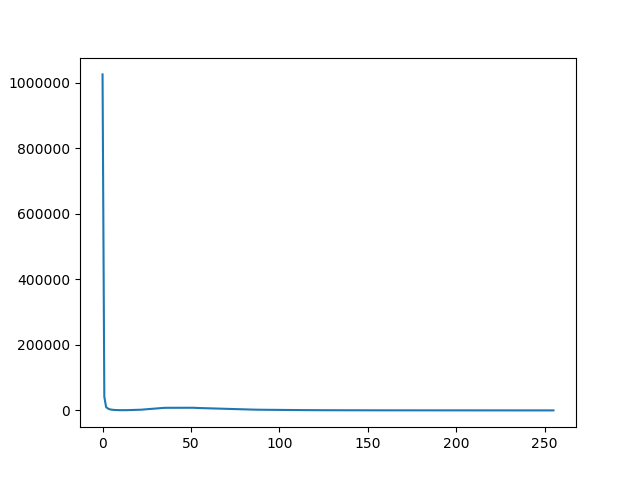
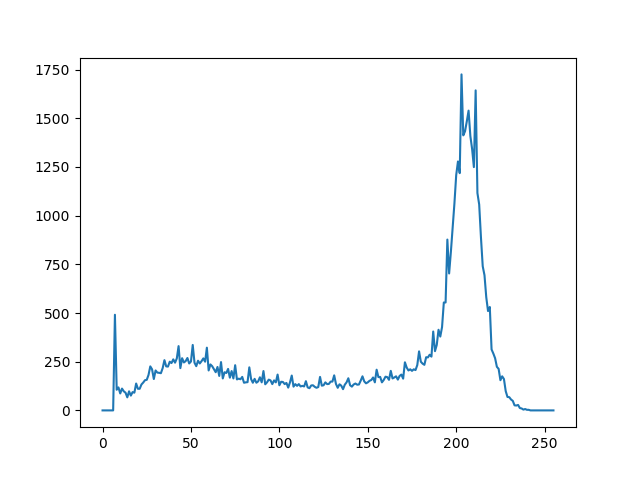
changes in blog

diff --git a/region_analysis/cell_counting.py b/region_analysis/cell_counting.py
@@ -1,4 +1,5 @@
 import numpy as np
+import cv2
 class cell_counting:
 
     def blob_coloring(self, image):
@@ -11,27 +12,40 @@ class cell_counting:
         r,c=image.shape
         region_counter=1
         R = np.zeros((r, c))
-        for i in range(r - 1):
-            for j in range(c - 1):
-                if image[i, j] == 0 and image[i, j - 1] == 255 and image[i - 1, j] == 255:
+        for i in range(r):
+            for j in range(c):
+                if image[i, j] == 255 and image[i, j - 1] == 0 and image[i - 1, j] == 0:
                     R[i, j] = region_counter
                     region_counter = region_counter + 1
-                if image[i, j] == 0 and image[i, j - 1] == 255 and image[i - 1, j] == 0:
+                if image[i, j] == 255 and image[i, j - 1] == 0 and image[i - 1, j] == 255:
                     R[i, j] = R[i - 1, j ]
-                if image[i, j] == 0 and image[i, j - 1] == 0 and image[i - 1, j] == 255:
+                if image[i, j] == 255 and image[i, j - 1] == 255 and image[i - 1, j] == 0:
                     R[i, j] = R[i, j - 1]
-                if image[i, j] == 0 and image[i, j - 1] == 0 and image[i - 1, j] == 0:
+                if image[i, j] == 255 and image[i, j - 1] == 255 and image[i - 1, j] == 255:
                     R[i, j] = R[i - 1, j]
-
-        for k in range(1,region_counter-1):
-            regions[k]=[]
-            for i in range(r - 1):
-                for j in range(c - 1):
-                    if R[i,j]==k:
+                if R[i, j - 1] != R[i - 1, j]:
+                    R[i, j - 1] == R[i - 1, j]
+        for i in range(r):
+            for j in range(c):
+                for m in range(1,region_counter):
+                    if image[i, j] == 0 and R[i, j]!= m :
+                        image[i, j] = 255
+        #for k in range(1,region_counter):
+        #    regions[k]=[]
+        #    for i in range(r):
+        #        for j in range(c):
+        #            if R[i,j]==k:
+        #                regions[k].append([i,j])
+        for k in range(1, region_counter):
+            regions[k] = []
+            for i in range(r):
+                for j in range(c):
+                    if image[i,j]==k:
                         regions[k].append([i,j])
 
 
-        print(len(regions))
+
+        print(regions)
 
         return regions
 
@@ -42,24 +56,24 @@ class cell_counting:
         returns: area"""
         finalreg=dict()
         count=1
-        for i in range(1,len(region)):
+        for i in range(1,len(region)+1):
             if(len(region[i])>15):
                 cx=0
                 cy=0
-                for j in (len(region[i])-1):
+                for j in range(len(region[i])):
                     cx+=(region[i][j][0]/len(region[i]))
                     cy += (region[i][j][1]/len(region[i]))
 
-                finalreg[count]=[len(region[i]),[int(cx),int(cy)]]
+                finalreg[count]=[[int(cx),int(cy)],len(region[i])]
                 count += 1
 
-
+        print(finalreg)
 
         # Please print your region statistics to stdout
         # <region number>: <location or center>, <area>
         # print(stats)
 
-        return 0
+        return finalreg
 
     def mark_regions_image(self, image, stats):
         """Creates a new image with computed stats
@@ -67,6 +81,10 @@ class cell_counting:
         image: a list of pixels in a region
         stats: stats regarding location and area
         returns: image marked with center and area"""
-
+        for i in range(1,len(stats)+1):
+            x=stats[i][0][0]
+            y=stats[i][0][1]
+            #print(x,y)
+            cv2.putText(image, "*", (x,y), cv2.FONT_HERSHEY_SIMPLEX, 0.2, (126,0, 0))
         return image
 

diff --git a/region_analysis/binary_image.py b/region_analysis/binary_image.py
@@ -13,12 +13,14 @@ class binary_image:
         h = image.shape[1]
         print(w*h)
         count=0
-        for i in range(255):
-            for j in range(w-1):
-                for k in range(h-1):
+        for i in range(256):
+            for j in range(w):
+                for k in range(h):
                     if image[j,k]==i:
                         hist[i] = hist[i] + 1
                         count=count+1
+            if i == 256:
+                print("hello")
             #print(count)
         #print(hist)
         #print(len(hist))
@@ -33,14 +35,14 @@ class binary_image:
 
         threshold = 0
         count=0
-        for i in range(255):
+        for i in range(256):
             count = count + hist[i]
         print(count)
-        for i in range(len(hist)-1):
-            threshold=i*(hist[i]/1543200) + threshold
+        for i in range(len(hist)):
+            threshold=i*(hist[i]/count) + threshold
         return threshold
 
-    def binarize(self, image):
+    def binarize(self,threshold, image):
         """Comptues the binary image of the the input image based on histogram analysis and thresholding
         take as input
         image: an grey scale image
@@ -48,12 +50,12 @@ class binary_image:
 
 
         w,h=image.shape
-        his=self.compute_histogram(image)
+
         #print(his)
-        threshold=self.find_optimal_threshold(his)
+
         print(threshold)
-        for i in range(w-1):
-            for j in range(h-1):
+        for i in range(w):
+            for j in range(h):
                 if(image[i,j]<threshold):
                     image[i,j]=255
                 else:

diff --git a/resize/resample.py b/resize/resample.py
@@ -34,8 +34,8 @@ class resample:
         nx = int(w * int(fx))
         ny = int(h * int(fy))
         img1 = numpy.zeros((nx, ny))
-        for i in range(nx - 1):
-            for j in range(ny - 1):
+        for i in range(nx):
+            for j in range(ny):
                 img1[i, j] = image[int(i / int(fx)), int(j / int(fy))]
 
         print("hello")
@@ -71,6 +71,19 @@ class resample:
                 unknown=[i / int(fx),j / int(fy),0]
                 l=interobj.bilinear_interpolation(interobj,pt1,pt2,pt3,pt4,unknown)
                 img1[i,j]=l
+                if i==(nx-3):
+                    print("hello")
+                if j == (ny - 3):
+                    print("hello2")
+        for i in range(nx - 3,nx):
+            for j in range(0,ny):
+                img1[i,j]=img1[i-1,j]
+                if i == nx:
+                    print(i)
+        for i in range(0,nx):
+            for j in range(ny-3,ny):
+                img1[i,j]=img1[i,j-1]
+
         return img1
 
 

diff --git a/dip_hw1_region_analysis.py b/dip_hw1_region_analysis.py
@@ -60,7 +60,7 @@ def main():
     threshold = bin_img.find_optimal_threshold(hist)
     print("Optimal threshold: ", threshold)
 
-    binary_img = bin_img.binarize(input_image)
+    binary_img = bin_img.binarize(threshold,input_image)
     output_image_name = outputDir + "binary_image_" + datetime.now().strftime("%m%d-%H%M%S") + ".jpg"
     cv2.imwrite(output_image_name, binary_img)
 

diff --git a/report.md b/report.md
@@ -1,1 +1,21 @@
 
+
+Nearest Neighbor:
+
+nearest_neighbor(self, image, fx, fy):
+
+1. image, resize scale along x axis (fx) and resize scale along y axis(fy) are taken as input parameters to the nearest_neigbour function.
+2. The number of pixels that should be present along the x axis is calculated as (w * int(fx)). where w is the number of pixels along x axis in the original image.
+3. The number of pixels that should be present along the y axis is calculated as (h * int(fy)). where h is the number of pixels along y axis in the original image.
+4. Blank image is created with new scale is created.
+5. Calculated the nearest neigbor pixel in original image(int(i / int(fx)), int(j / int(fy))) to the pixel in new image.
+6. Assign nearest neigbor pixel intensity value to the pixel in the new image
+7. Repeated for all the pixels in the new image.
+8. Thus the image is resized using nearest neighbor and the function returns the resized image.
+
+Linear interpolation:
+
+linear_interpolation(self, pt1, pt2, unknown):
+
+1. Two points whose intensity values are known and the point whose intensity value is not known are passed as the input parameters to the function.
+2. The intensity value of that
